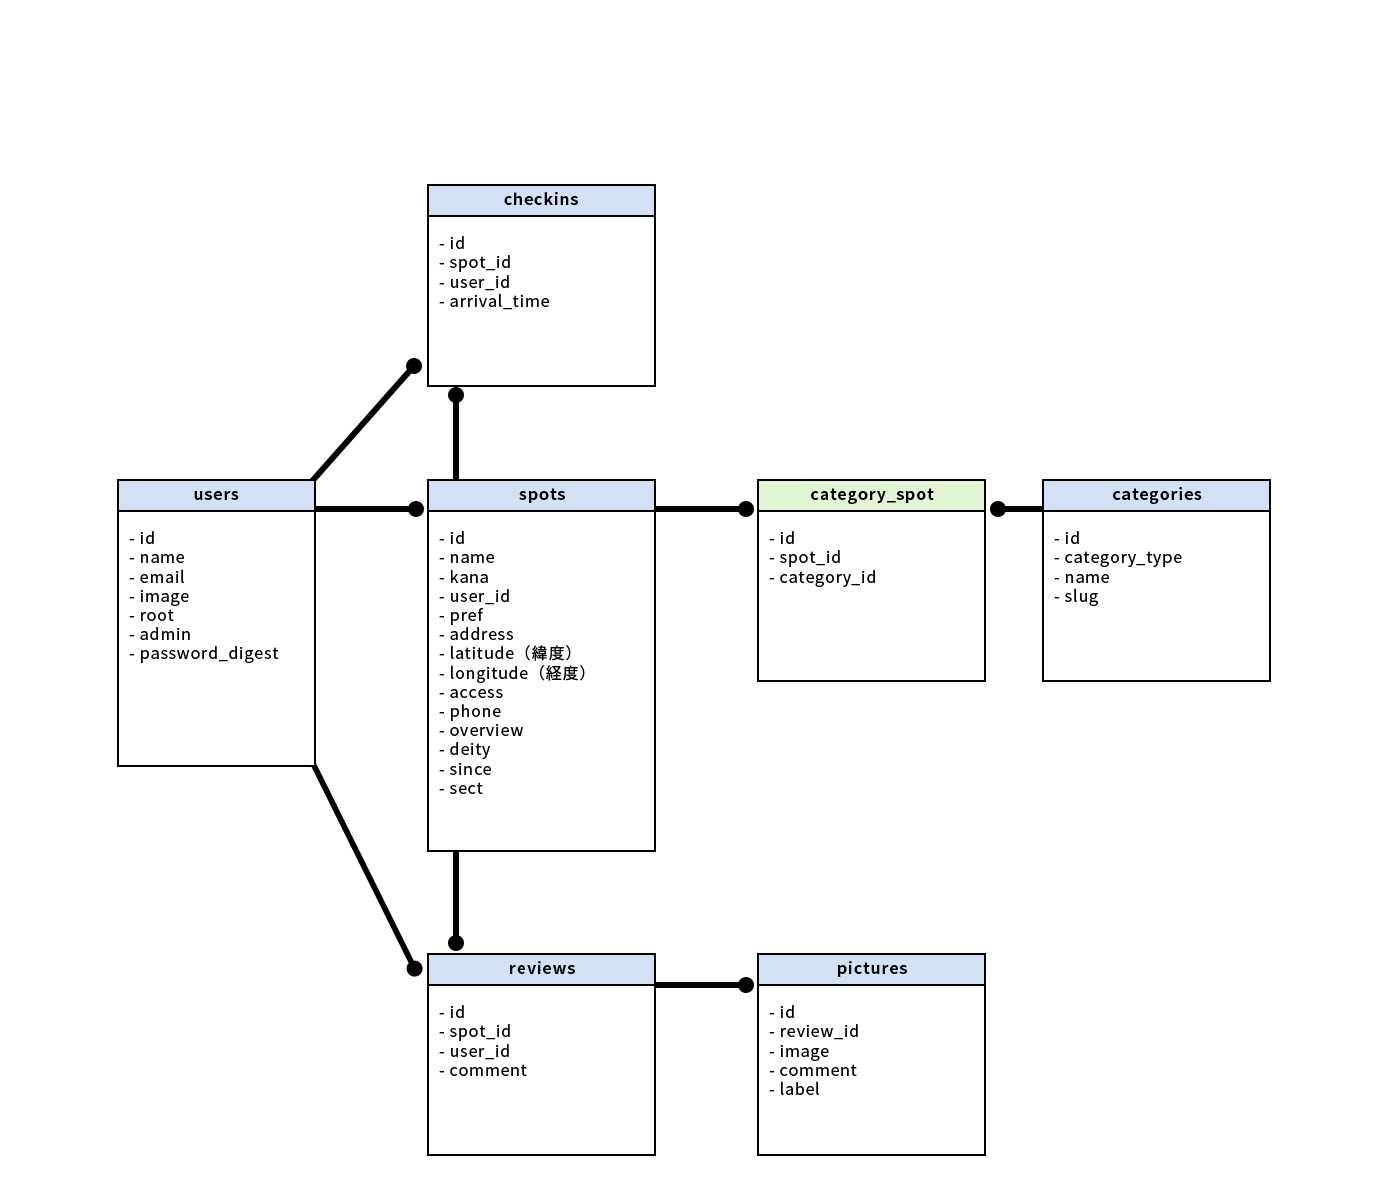
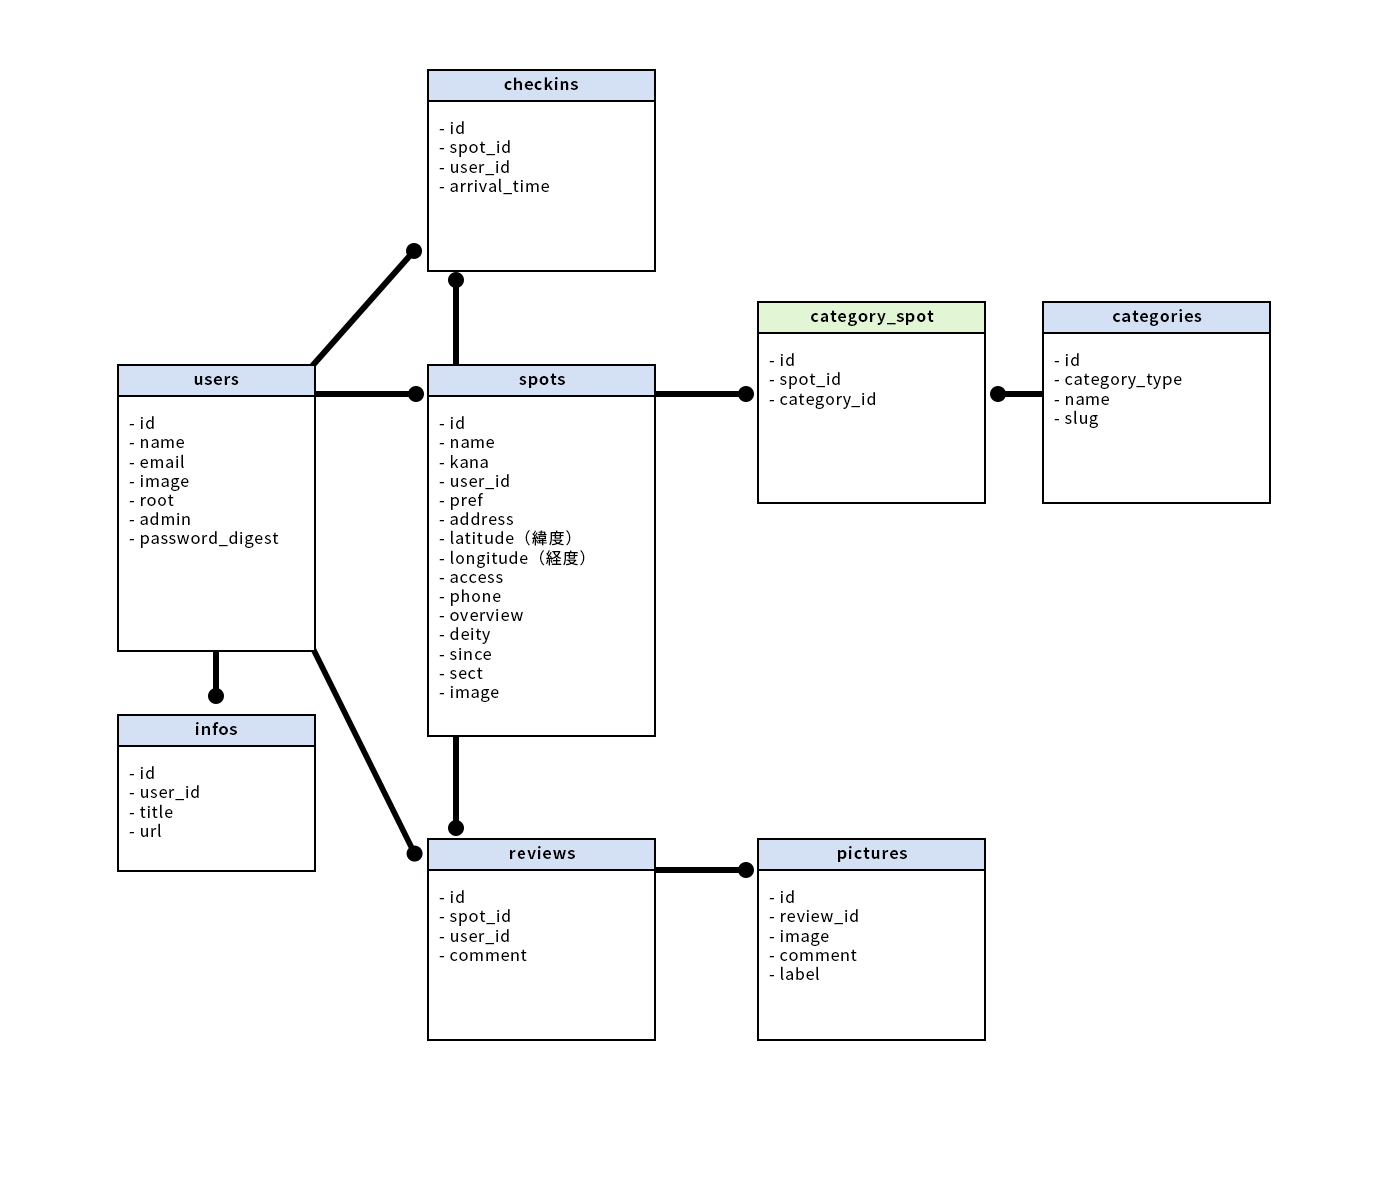
add image to spots

diff --git a/app/assets/javascripts/application.js b/app/assets/javascripts/application.js
@@ -52,3 +52,30 @@ $(document).ready(function(){
     $(this).spin();
   })
 });
+
+//スムーススクロール
+$(function(){
+  // #で始まるアンカーをクリックした場合に処理
+  $('a[href^="#"]').click(function() {
+    // スクロールの速度
+    var speed = 300; // ミリ秒
+    // アンカーの値取得
+    var href= $(this).attr("href");
+    // 移動先を取得
+    var target = $(href == "#" || href == "" ? 'html' : href);
+    // 移動先を数値で取得
+    var position = target.offset().top;
+    // スムーススクロール
+    $('body,html').animate({scrollTop:position}, speed, 'swing');
+    return false;
+  });
+});
+
+// hide pagetop button
+$(window).scroll(function(){
+  if( ($(window).height() + $(window).scrollTop()) >= ($(document).height() - 100 ) ){
+    $('#page-top').fadeOut('fast');
+  }else{
+    $('#page-top').fadeIn('fast');
+  };
+});

diff --git a/app/assets/stylesheets/application.scss b/app/assets/stylesheets/application.scss
@@ -347,6 +347,25 @@ footer{
   }
 }
 
+#page-top{
+  font-size: 36px;
+  position: fixed;
+  display: block;
+  bottom: 40px;
+  right: 40px;
+  width: 50px;
+  height: 50px;
+  text-align: center;
+  background: $white;
+  border: 2px solid $theme-color;
+  box-shadow: 0 1px 2px 0 rgba(0,0,0,0.14);
+  color: $theme-color;
+  border-radius: 100%;
+  box-sizing: border-box;
+  z-index: 10;
+  line-height: 1;
+}
+
 
 /*
  * Sidebar
@@ -891,6 +910,16 @@ aside{
       &:hover{
         text-decoration: none;
         background: #eee;
+      }
+      .spot_thumb{
+        width: 120px;
+        border-radius: 10px;
+        float: left;
+        margin-right: 16px;
+      }
+      .wrap{
+        overflow: hidden;
+        display: block;
       }
       span{
         vertical-align: middle;

diff --git a/db/schema.rb b/db/schema.rb
@@ -10,7 +10,7 @@
 #
 # It's strongly recommended that you check this file into your version control system.
 
-ActiveRecord::Schema.define(version: 20181207113651) do
+ActiveRecord::Schema.define(version: 20181223181240) do
 
   create_table "categories", force: :cascade, options: "ENGINE=InnoDB DEFAULT CHARSET=utf8" do |t|
     t.string "category_type"
@@ -75,6 +75,7 @@ ActiveRecord::Schema.define(version: 20181207113651) do
     t.string "deity"
     t.string "since"
     t.string "sect"
+    t.string "image"
     t.index ["user_id"], name: "index_spots_on_user_id"
   end
 

diff --git a/app/controllers/spots_controller.rb b/app/controllers/spots_controller.rb
@@ -168,7 +168,7 @@ class SpotsController < ApplicationController
   end
   
   def spot_params
-    params.require(:spot).permit(:name, :kana, :address, :access, :phone, :pref, :latitude, :longitude, :overview, :since, :sect, :deity, { :category_ids=> []})
+    params.require(:spot).permit(:name, :kana, :address, :access, :phone, :pref, :latitude, :longitude, :overview, :since, :sect, :deity, :image, { :category_ids=> []})
   end
   
 end

diff --git a/app/helpers/application_helper.rb b/app/helpers/application_helper.rb
@@ -29,6 +29,14 @@ module ApplicationHelper
     raw(html)
   end
   
+  def spot_icon_thumb(spot)
+    if spot.image.present?
+      image_tag spot.image.thumb.url, class: 'thumb spot_thumb '
+    else
+      image_tag 'spot_no_image.png', class: 'thumb spot_thumb '
+    end
+  end
+  
   def user_icon_thumb(user)
     if user.image.present?
       image_tag user.image.thumb.url, class: 'thumb user_thumb '

diff --git a/app/models/spot.rb b/app/models/spot.rb
@@ -12,6 +12,8 @@ class Spot < ApplicationRecord
   has_many :categories, through: :category_spots
   has_many :pictures, through: :reviews
   
+  mount_uploader :image, ImageUploader
+  
   geocoded_by :address
   after_validation :geocode
   

diff --git a/db/migrate/20181223181240_add_image_to_spots.rb b/db/migrate/20181223181240_add_image_to_spots.rb
@@ -1,0 +1,5 @@
+class AddImageToSpots < ActiveRecord::Migration[5.1]
+  def change
+    add_column :spots, :image, :string
+  end
+end
